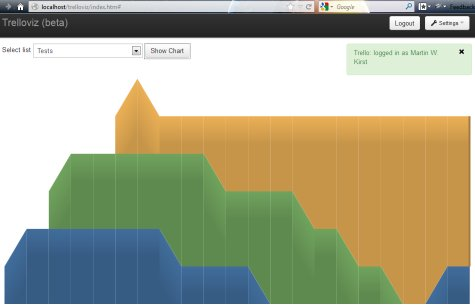
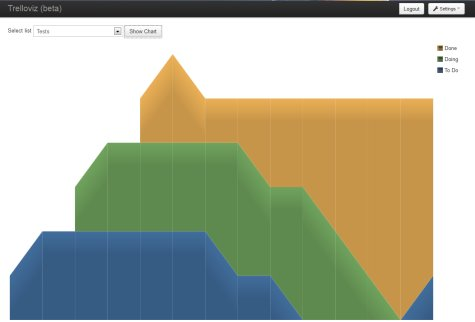
[Demo Page] added legend with colors, updated screenshot

diff --git a/demo/js/TrellovizData.js b/demo/js/TrellovizData.js
@@ -1,7 +1,8 @@
 var TrellovizData=function(){};
-TrellovizData.prototype={listOrderIds:[],listOrderNames:[],counterPerList:{},cardToListMap:{},vizDataForJit:{label:[],values:[]},init:function(){this.listOrderIds=[];this.listOrderNames=[];this.counterPerList={};this.cardToListMap={};this.vizDataForJit={label:[],values:[]}},computeVizData_all_lists:function(a){this.init();this.sortTrelloDataByDateAscending(a);for(var b=0;b<a.length;b++)this.processSingleTrelloActionRecord(b,a[b]);this.retrieveLabelNamesFromList();this.cleanupNullValues();return this.vizDataForJit},
-cleanupNullValues:function(){this.vizDataForJit.values.forEach(function(a){for(var b=0,e=a.values.length;b<e;b++)a.values[b]=a.values[b]||0},this)},sortTrelloDataByDateAscending:function(a){a.sort(function(a,e){var f=Date.parse(a.date),c=Date.parse(e.date);return f<c?-1:f>c?1:0})},actionArchiveCard:function(a){if(a=this.cardToListMap[a.data.card.id]){if(0>=this.counterPerList[a]){this.counterPerList[a]=1;for(var b=this.listOrderIds.indexOf(a),e=this.vizDataForJit.values.length-1;0<=e;e--)this.vizDataForJit.values[e].values[b]=
-(this.vizDataForJit.values[e].values[b]||0)+1}this.counterPerList[a]--;return!0}return!1},actionCreateCard:function(a){var b=a.data.list.id;this.ensureListIsRegistered(a.data.list);this.counterPerList[b]++;this.cardToListMap[a.data.card.id]=b},ensureListIsRegistered:function(a){this.counterPerList[a.id]||(this.counterPerList[a.id]=0,this.listOrderIds.push(a.id),this.listOrderNames.push(a.name))},actionMoveCard:function(a){var b=a.data.listBefore.id,e=a.data.listAfter.id;this.ensureListIsRegistered(a.data.listBefore);
-this.ensureListIsRegistered(a.data.listAfter);if(0>=this.counterPerList[b]){this.counterPerList[b]=1;for(var f=this.listOrderIds.indexOf(b),c=this.vizDataForJit.values.length-1;0<=c;c--)this.vizDataForJit.values[c].values[f]=(this.vizDataForJit.values[c].values[f]||0)+1}this.counterPerList[b]--;this.counterPerList[e]++;this.cardToListMap[a.data.card.id]=e},processSingleTrelloActionRecord:function(a,b){var e=b.date,f=!1,c={},d=function(){};c.addMemberToCard=d;c.removeMemberFromCard=d;c.addChecklistToCard=
-d;c.copyCard=d;c.updateCheckItemStateOnCard=d;c.updateBoard=d;c.commentCard=d;c.moveCardFromBoard=d;c.convertToCardFromCheckItem=d;c.addAttachmentToCard=d;c.removeChecklistFromCard=d;c.updateChecklist=d;c.createBoard=d;c.addMemberToBoard=d;c.createList=function(){this.ensureListIsRegistered(b.data.list)};c.moveCardToBoard=function(){f=this.actionArchiveCard(b)};c.createCard=function(){f=!0;this.actionCreateCard(b)};c.updateCard=function(){!0==b.data.card.closed&&!1==b.data.old.closed&&(f=this.actionArchiveCard(b));
-b.data.listAfter&&b.data.listBefore&&(f=!0,this.actionMoveCard(b))};c[b.type]?c[b.type].call(this):console.error("missing action, not handled: "+b.type);if(f){c=[];for(d=0;d<this.listOrderIds.length;d++)c.push(this.counterPerList[this.listOrderIds[d]]);this.vizDataForJit.values.push({label:e,values:c})}},retrieveLabelNamesFromList:function(){for(var a=0;a<this.listOrderNames.length;a++)this.vizDataForJit.label.push(this.listOrderNames[a])}};
+TrellovizData.prototype={defaultColors:"#416D9C #70A35E #EBB056 #C74243 #83548B #909291 #557EAA".split(" "),listOrder:{},counterPerList:{},cardToListMap:{},vizDataForJit:{label:[],values:[],color:[]},init:function(){this.listOrder={};this.counterPerList={};this.cardToListMap={};this.vizDataForJit={label:[],values:[]}},computeVizData_all_lists:function(b){this.init();this.sortTrelloDataByDateAscending(b);for(var a=0;a<b.length;a++)this.processSingleTrelloActionRecord(a,b[a]);this.retrieveLabelNamesFromList();
+this.cleanupNullValues();return this.vizDataForJit},cleanupNullValues:function(){this.vizDataForJit.values.forEach(function(b){for(var a=0,d=b.values.length;a<d;a++)b.values[a]=b.values[a]||0},this)},sortTrelloDataByDateAscending:function(b){b.sort(function(a,b){var f=Date.parse(a.date),c=Date.parse(b.date);return f<c?-1:f>c?1:0})},actionArchiveCard:function(b){if(b=this.cardToListMap[b.data.card.id]){if(0>=this.counterPerList[b]){this.counterPerList[b]=1;for(var a=this.listOrder[b].listIdx,d=this.vizDataForJit.values.length-
+1;0<=d;d--)this.vizDataForJit.values[d].values[a]=(this.vizDataForJit.values[d].values[a]||0)+1}this.counterPerList[b]--;return!0}return!1},actionCreateCard:function(b){var a=b.data.list.id;this.ensureListIsRegistered(b.data.list);this.counterPerList[a]++;this.cardToListMap[b.data.card.id]=a},ensureListIsRegistered:function(b){if(!this.listOrder[b.id]){this.counterPerList[b.id]=0;var a=this.sizeOfObject(this.listOrder);this.listOrder[b.id]={name:b.name,id:b.id,listIdx:a,color:this.defaultColors[a%
+this.defaultColors.length]}}},actionMoveCard:function(b){var a=b.data.listBefore.id,d=b.data.listAfter.id;this.ensureListIsRegistered(b.data.listBefore);this.ensureListIsRegistered(b.data.listAfter);if(0>=this.counterPerList[a]){this.counterPerList[a]=1;for(var f=this.listOrder[a].listIdx,c=this.vizDataForJit.values.length-1;0<=c;c--)this.vizDataForJit.values[c].values[f]=(this.vizDataForJit.values[c].values[f]||0)+1}this.counterPerList[a]--;this.counterPerList[d]++;this.cardToListMap[b.data.card.id]=
+d},processSingleTrelloActionRecord:function(b,a){var d=a.date,f=!1,c={},e=function(){};c.addMemberToCard=e;c.removeMemberFromCard=e;c.addChecklistToCard=e;c.copyCard=e;c.updateCheckItemStateOnCard=e;c.updateBoard=e;c.commentCard=e;c.moveCardFromBoard=e;c.convertToCardFromCheckItem=e;c.addAttachmentToCard=e;c.removeChecklistFromCard=e;c.updateChecklist=e;c.createBoard=e;c.addMemberToBoard=e;c.createList=function(){this.ensureListIsRegistered(a.data.list)};c.moveCardToBoard=function(){f=this.actionArchiveCard(a)};
+c.createCard=function(){f=!0;this.actionCreateCard(a)};c.updateCard=function(){!0==a.data.card.closed&&!1==a.data.old.closed&&(f=this.actionArchiveCard(a));a.data.listAfter&&a.data.listBefore&&(f=!0,this.actionMoveCard(a))};c[a.type]?c[a.type].call(this):console.error("missing action, not handled: "+a.type);f&&this.vizDataForJit.values.push({label:d,values:this.retrieveValueRowWithNaturalOrder()})},retrieveValueRowWithNaturalOrder:function(){var b=[],a;for(a in this.listOrder)b[this.listOrder[a].listIdx]=
+this.counterPerList[a];return b},retrieveListsWithNaturalOrder:function(){var b=[],a;for(a in this.listOrder)b[this.listOrder[a].listIdx]=this.listOrder[a];return b},retrieveLabelNamesFromList:function(){for(var b in this.listOrder)this.vizDataForJit.label[this.listOrder[b].listIdx]=this.listOrder[b].name},sizeOfObject:function(b){var a=0,d;for(d in b)b.hasOwnProperty(d)&&a++;return a}};

diff --git a/demo/index.htm b/demo/index.htm
@@ -16,6 +16,12 @@
     body {
       padding-top: 60px; /* 60px to make the container go all the way to the bottom of the topbar */
     }
+
+    .popup-top-right {
+      position: absolute;
+      right: 25px;
+      top: auto;
+    }
   </style>
   <link href="assets/css/bootstrap-responsive.css" rel="stylesheet">
 
@@ -44,7 +50,8 @@
           <span class="caret"></span>
         </a>
         <ul class="dropdown-menu btn-small">
-          <li id="menuConfigApiKey"><a href="#" data-bind="click: toggleConfigApiKeyPanelVisible">Configure Trello API Key</a>
+          <li id="menuConfigApiKey"><a href="#" data-bind="click: toggleConfigApiKeyPanelVisible">Configure
+            Trello API Key</a>
           </li>
         </ul>
       </div>
@@ -61,25 +68,26 @@
   </div>
 </div>
 
+<div id="loggedin" class="alert alert-success popup-top-right" style="display: none">
+  <button class="close fade" href="#" data-bind="click: function(){$('#loggedin').fadeOut();}">×</button>
+  <p>Trello: logged in as</p>
+
+  <p data-bind="text: fullTrelloUserName"></p>
+</div>
+
 <div class="container-fluid">
 
 
   <div class="row-fluid">
-    <div id="loggedin" class="alert alert-success pull-right" style="display: none">
-      <button class="close fade" href="#" data-bind="click: function(){$('#loggedin').fadeOut();}">×</button>
-      <p>Trello: logged in as</p>
-
-      <p data-bind="text: fullTrelloUserName"></p>
-    </div>
-
     <div id="configApiKeyPanel" class="span7" style="display:none;" data-bind="visible: showConfigPanel">
       <form class="well form-horizontal">
         <fieldset>
-          <button id="btnCloseConfigApiKeyPanel" class="close fade" href="#" data-bind="click: toggleConfigApiKeyPanelVisible">×
+          <button id="btnCloseConfigApiKeyPanel" class="close fade" href="#"
+                  data-bind="click: toggleConfigApiKeyPanelVisible">×
           </button>
           <div class="control-group" data-bind="css:{ error: apiKey().length != 32 }">
             <label for="txtTRELLOAPIKEY">Your Trello API Key</label>
-            <input id="txtTRELLOAPIKEY" type="text" class="span4" maxlength="32" data-bind="value: apiKey"
+            <input id="txtTRELLOAPIKEY" type="text" class="span11" maxlength="32" data-bind="value: apiKey"
                    placeholder="Enter your 32 letters Trello API key...">
           </div>
                 <span class="help-block">
@@ -91,17 +99,20 @@
         </fieldset>
       </form>
     </div>
+  </div>
 
-    <div id="selectBoardPanel" style="display:none;" data-bind="visible: loggedIn">
+  <div class="row-fluid">
+
+    <div id="selectBoardPanel" class="span11" style="display:none;" data-bind="visible: loggedIn">
       <form class="form-inline">
-                <span class="control-group">
-                    <label class="control-label" for="selectBoardCombo">Select list</label>
-                    <span class="controls">
-                        <select id="selectBoardCombo">
+        <span class="control-group">
+            <label class="control-label" for="selectBoardCombo">Select list</label>
+            <span class="controls">
+                <select id="selectBoardCombo">
 
-                        </select>
-                    </span>
-                </span>
+                </select>
+            </span>
+        </span>
         <button id="btnShowChart" class="btn" href="#">Show Chart</button>
       </form>
     </div>
@@ -109,21 +120,19 @@
   </div>
 
   <div class="row-fluid">
+    <div class="span11" id="graphic" style="min-height: 700px"></div>
 
-    <div class="span2" id="listPanel" data-bind="visible: loggedIn">
-
+    <div class="span1 pull-right" id="listPanel" data-bind="visible: loggedIn">
       <script type="text/html" id="listnames-template">
         <p>
-          <i class="icon-list"></i>
+          <i class="icon-list" data-bind="style: {backgroundColor:color}"></i>
           <span data-bind="text: name"><!-- NAME --></span>
         </p>
       </script>
-
-      <div class="sidebar-nav" data-bind="template: {name: 'listnames-template', foreach: trelloLists}">
+      <div data-bind="template: {name: 'listnames-template', foreach: trelloLists}">
       </div>
     </div>
 
-    <div class="span10" id="graphic" style="min-height: 500px;"></div>
 
   </div>
 
@@ -141,28 +150,31 @@
 <script type="text/javascript">
   ko.applyBindings(Trelloviz.viewModel);
 </script>
+
 <script type="text/javascript">
-        // <![CDATA[
-        if ("http:" == document.location.protocol) {
-            document.write(unescape("%3Cscript src='" + (("https:" == document.location.protocol) ? "http://cdn.betaeasy.com" : "http://cdn.betaeasy.com") + "/betaeasy.js' type='text/javascript'%3E%3C/script%3E"))
-        }
-        // ]]>
-    </script>
-    <script type="text/javascript">
-        // <![CDATA[
-        try {
-            BetaEasy.init({
-                betaId: '1073',
-                styleType: 'new',
-                buttonAlign: 'right',
-                language: 'en',
-                buttonBackgroundColor: '#f00',
-                buttonMouseHoverBackgroundColor: '#06C',
-                buttonImageActive: 'en/newbtn-5.png',
-                buttonImageHover: 'none'
-            });
-        } catch(err) {}
-        // ]]>
-    </script>
+    // <![CDATA[
+    if ("http:" == document.location.protocol) {
+        document.write(unescape("%3Cscript src='" + (("https:" == document.location.protocol) ? "http://cdn.betaeasy.com" : "http://cdn.betaeasy.com") + "/betaeasy.js' type='text/javascript'%3E%3C/script%3E"))
+    }
+    // ]]>
+</script>
+<script type="text/javascript">
+    // <![CDATA[
+    try {
+        BetaEasy.init({
+            betaId: '1073',
+            styleType: 'new',
+            buttonAlign: 'right',
+            language: 'en',
+            buttonBackgroundColor: '#f00',
+            buttonMouseHoverBackgroundColor: '#06C',
+            buttonImageActive: 'en/newbtn-5.png',
+            buttonImageHover: 'none'
+        });
+    } catch(err) {}
+    // ]]>
+</script>
+
+
 </body>
 </html>

diff --git a/demo/js/Trelloviz.js b/demo/js/Trelloviz.js
@@ -1,7 +1,8 @@
 if("undefined"==typeof Trelloviz)var Trelloviz=function(){};
 Trelloviz.viewModel={apiKey:ko.observable(""),loggedIn:ko.observable(!1),fullTrelloUserName:ko.observable(""),trelloLists:ko.observableArray(),showConfigPanel:ko.observable(!1),toggleConfigApiKeyPanelVisible:function(){var a=Trelloviz.viewModel.showConfigPanel();Trelloviz.viewModel.showConfigPanel(!a)},actionLogIn:function(){var a=Trelloviz.viewModel.apiKey();null!=a&&32==a.length?(Trelloviz.viewModel.showConfigPanel(!1),jQuery.getScript("https://api.trello.com/1/client.js?key="+a,Trelloviz_trelloLogin)):
-Trelloviz.viewModel.showConfigPanel(!0)},actionLogOut:function(){Trelloviz.viewModel.loggedIn(!1);Trello.deauthorize()},setNewData:function(a){for(var c=new TrellovizData,a=c.computeVizData_all_lists(a),b=[],d=0;d<c.listOrderNames.length;d++)b.push({name:c.listOrderNames[d]});Trelloviz.viewModel.trelloLists(b);Trelloviz_showGraphic(a)}};Trelloviz.trelloLoadAndShowUserInfo=function(){Trello.members.get("me",function(a){Trelloviz.viewModel.fullTrelloUserName(a.fullName)})};
+Trelloviz.viewModel.showConfigPanel(!0)},actionLogOut:function(){Trelloviz.viewModel.loggedIn(!1);Trello.deauthorize()},setNewData:function(a){var b=new TrellovizData,a=b.computeVizData_all_lists(a),b=b.retrieveListsWithNaturalOrder();b.reverse();Trelloviz.viewModel.trelloLists(b);Trelloviz_showGraphic(a)}};Trelloviz.trelloLoadAndShowUserInfo=function(){Trello.members.get("me",function(a){Trelloviz.viewModel.fullTrelloUserName(a.fullName)})};
 Trelloviz.trelloLoadAndShowBoards=function(){Trello.get("members/me/boards",{},Trelloviz_showBoards)};
 var Trelloviz_onAuthorize=function(){var a="undefined"!=typeof Trello&&Trello.authorized();Trelloviz.viewModel.loggedIn(a);a&&(Trelloviz.trelloLoadAndShowUserInfo(),$("#loggedin").fadeIn().delay(2E3).fadeOut(),Trelloviz.trelloLoadAndShowBoards())},Trelloviz_onAuthorizeError=function(){Trelloviz.viewModel.loggedIn(!1)},Trelloviz_trelloLogin=function(){Trello.authorize({interactive:!0,type:"popup",success:Trelloviz_onAuthorize,error:Trelloviz_onAuthorizeError,expiration:"1day",scope:{read:!0,write:!1}})},
-Trelloviz_onShowActionForBoard=function(a){Trello.get("boards/"+a+"/actions",{limit:"1000"},Trelloviz.viewModel.setNewData)},Trelloviz_showBoards=function(a){var c=[],b={id:a[0].id,name:a[0].name};$("#selectBoardCombo").empty();$("#btnShowChart").click(function(){Trelloviz_onShowActionForBoard(b.id)});$.each(a,function(a,e){var f=$("<option value="+e.id+">").text(e.name).appendTo("#selectBoardCombo");c.push(f[0]);$(f).click(function(a){b.id=a.target.value;b.name=a.target.text})})},Trelloviz_showGraphic=
-function(a){$("#graphic").empty();$('<div id="viz_container">').appendTo("#graphic");$('<div id="viz_canvas" style="min-height: 500px;">').appendTo("#viz_container");(new $jit.AreaChart({injectInto:"viz_canvas",animate:!0,Margin:{top:5,left:5,right:5,bottom:5},labelOffset:10,showAggregates:!0,showLabels:!0,type:"stacked:gradient",Tips:{enable:!0,onShow:function(a,b){$(a).empty();$("<span>").addClass("label").addClass("label-info").text(""+b.name+" ("+b.value+")").appendTo(a)}},filterOnClick:!1,restoreOnRightClick:!0})).loadJSON(a)};
+Trelloviz_onShowActionForBoard=function(a){Trello.get("boards/"+a+"/actions",{limit:"1000"},Trelloviz.viewModel.setNewData)},Trelloviz_showBoards=function(a){var b=[],c={id:a[0].id,name:a[0].name};$("#selectBoardCombo").empty();$("#btnShowChart").click(function(){Trelloviz_onShowActionForBoard(c.id)});$.each(a,function(a,d){var e=$("<option value="+d.id+">").text(d.name).appendTo("#selectBoardCombo");b.push(e[0]);$(e).click(function(a){c.id=a.target.value;c.name=a.target.text})})},Trelloviz_showGraphic=
+function(a){$("#graphic").empty();$('<div id="viz_container" style="min-height: 700px">').appendTo("#graphic");$('<div id="viz_canvas" style="min-height: 700px">').appendTo("#viz_container");(new $jit.AreaChart({injectInto:"viz_canvas",animate:!0,Margin:{top:5,left:5,right:5,bottom:5},labelOffset:10,showAggregates:!0,showLabels:!0,type:"stacked:gradient",Tips:{enable:!0,onShow:function(a,c){$(a).empty();$("<span>").addClass("label").addClass("label-info").text(""+c.name+" ("+c.value+")").appendTo(a)}},
+filterOnClick:!1,restoreOnRightClick:!0})).loadJSON(a)};
